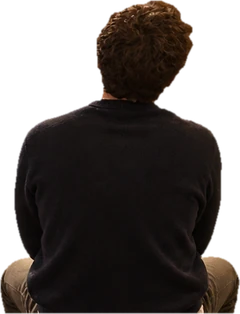
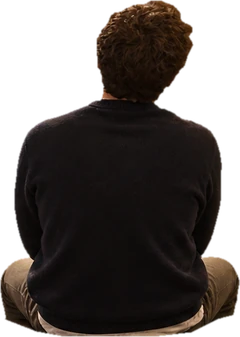
v6-museum: visitors sit ON the cushion (thighs/hips cut from the photos), idle breathing and head drift, contact shadow
Claude-Session: https://claude.ai/code/session_01CjM6fmEWSfNtEVqCvytC2P

diff --git a/src/museum.js b/src/museum.js
@@ -60,7 +60,7 @@
   function measure() {
     var k = stage.clientWidth / PW;
     M.k = k; M.W = stage.clientWidth; M.H = stage.clientHeight;
-    M.floorTop = 730 * k; M.back = 746 * k; M.sitAnchor = 782 * k; M.sitMax = 800 * k; M.frontY = 905 * k; M.b0 = BX0 * k; M.b1 = BX1 * k;
+    M.floorTop = 730 * k; M.back = 746 * k; M.sitAnchor = 758 * k; M.sitMax = 800 * k; M.frontY = 905 * k; M.b0 = BX0 * k; M.b1 = BX1 * k;
   }
   var lerp = function (a, b, t) { return a + (b - a) * t; };
   var scaleAt = function (y) { return lerp(.9, 1.2, Math.max(0, Math.min(1, (y - M.floorTop) / (M.H - M.floorTop)))); };
@@ -69,10 +69,15 @@
     var y = m.sit ? M.sitAnchor : m.y, s = scaleAt(m.sit ? 770 * M.k : m.y);
     el.classList.toggle("sit", !!m.sit); el.classList.toggle("on", true);
     place(el, m.x, y, s);
+    var sh = stage.querySelector(".s-" + key);
+    if (sh) {
+      if (m.sit) { var sw = el.querySelector(".spr.sit").offsetWidth * s; sh.style.display = "block"; sh.style.width = (sw * 1.05).toFixed(1) + "px"; sh.style.left = m.x.toFixed(1) + "px"; sh.style.top = (748 * M.k).toFixed(1) + "px"; }
+      else sh.style.display = "none";
+    }
     if (!el.classList.contains("drag")) el.style.zIndex = m.sit ? 2 : (m.y > M.sitMax ? 6 : 2);
   }
   // seats along the bench: left to right  c, a, b
-  var seats = { c: .2, a: .5, b: .79 };
+  var seats = { c: .14, a: .42, b: .70 };
   function settle() {
     ["c", "a", "b"].forEach(function (key) {
       var m = man[key]; if (!m) m = man[key] = { x: 0, y: 0, sit: true, seed: true };

diff --git a/src/museum.css b/src/museum.css
@@ -97,3 +97,14 @@ body.museum-page .scene{display:none}
 .stage>.vis.drag .spr{translate:-50% -1cqw}
 .stage>.vis.drag{z-index:9!important}
 @media (prefers-reduced-motion:reduce){.stage>.vis img.head,.stage>.vis .spr{transition:none}}
+
+/* everyone breathes and drifts a little, all the time (head layer rides on a wrapper so the pointer-follow still works) */
+.stage>.vis .hw{position:absolute;inset:0;display:block;transform-origin:50% var(--cut);animation:idleHead var(--hd,9s) ease-in-out infinite;animation-delay:var(--dl,0s);pointer-events:none}
+.stage>.vis img.head{inset:0}
+.stage>.vis img.body{transform-origin:50% 100%;animation:breathe var(--bd,5s) ease-in-out infinite;animation-delay:var(--dl,0s)}
+@keyframes breathe{0%,100%{transform:translateY(0) scaleY(1)}50%{transform:translateY(-.03cqw) scaleY(1.004)}}
+@keyframes idleHead{0%,100%{transform:translate(0,.02cqw) rotate(0)}22%{transform:translate(.05cqw,-.01cqw) rotate(.7deg)}50%{transform:translate(0,-.03cqw) rotate(.1deg)}74%{transform:translate(-.05cqw,0) rotate(-.7deg)}}
+@media (prefers-reduced-motion:reduce){.stage>.vis .hw,.stage>.vis img.body{animation:none}}
+/* a soft dent of shadow where each visitor sits on the cushion */
+.sitshade{position:absolute;display:none;z-index:4;pointer-events:none;height:2.4cqw;transform:translateX(-50%);mix-blend-mode:multiply;
+  background:radial-gradient(ellipse 50% 50% at 50% 35%,rgba(35,18,6,.5),rgba(35,18,6,.18) 55%,transparent 75%)}

diff --git a/tools/make_visitors.py b/tools/make_visitors.py
@@ -15,11 +15,11 @@ STAND_H = 700          # standing sprites are resized to this height; seated one
 # name: (source, box x0,y0,x1,y1 to keep, 'cut' = source row of the neck (head layer ends here), seated?)
 SPR = {
     "a-stand": (SRC3, (600, 20, 950, 1000), 186),
-    "a-sit":   (SRC1, (600, 225, 945, 668), 378),
+    "a-sit":   (SRC1, (590, 225, 960, 712), 378, [(598,200),(955,200),(955,667),(933,667),(903,675),(867,693),(823,698),(690,698),(657,692),(613,675),(607,670),(590,668)]),
     "b-stand": (SRC3, (1060, 90, 1405, 1000), 262),
-    "b-sit":   (SRC1, (1005, 262, 1345, 668), 392),
+    "b-sit":   (SRC1, (1000, 262, 1360, 712), 392, [(1000,200),(1355,200),(1355,672),(1312,690),(1277,682),(1267,688),(1233,695),(1140,698),(1100,697),(1037,687),(1010,670),(1000,668)]),
     "c-stand": (SRC1, (100, 30, 440, 970), 196),
-    "c-sit":   (SRC1, (100, 30, 440, 470), 196),
+    "c-sit":   (SRC1, (100, 30, 440, 480), 196, [(100,20),(440,20),(440,386),(425,398),(395,407),(350,411),(190,411),(150,407),(122,398),(108,386)]),
 }
 def clean(arr):
     a = arr[:, :, 3]
@@ -38,8 +38,13 @@ def clean(arr):
     return np.dstack([rgb, (alpha * 255)]).astype(np.uint8)
 
 meta = {}
-for name, (src, (x0, y0, x1, y1), cut) in SPR.items():
-    im = np.asarray(Image.open(os.path.join(U, src)).convert("RGBA"))
+from PIL import ImageDraw
+for name, spec in SPR.items():
+    src, (x0, y0, x1, y1), cut = spec[:3]
+    im = np.asarray(Image.open(os.path.join(U, src)).convert("RGBA")).copy()
+    if len(spec) > 3:      # seated: keep only what lies above the curve where the person meets the cushion (thighs and hips included, the bench itself excluded)
+        m = Image.new("L", (im.shape[1], im.shape[0]), 0); ImageDraw.Draw(m).polygon(spec[3], fill=255)
+        im[:, :, 3] = np.minimum(im[:, :, 3], np.asarray(m))
     crop = im[y0:y1, x0:x1].copy()
     out = clean(crop)
     ys, xs = np.where(out[:, :, 3] > 20)
